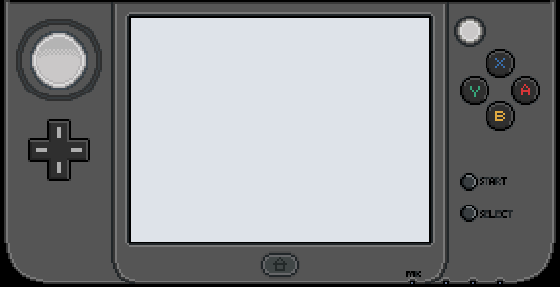
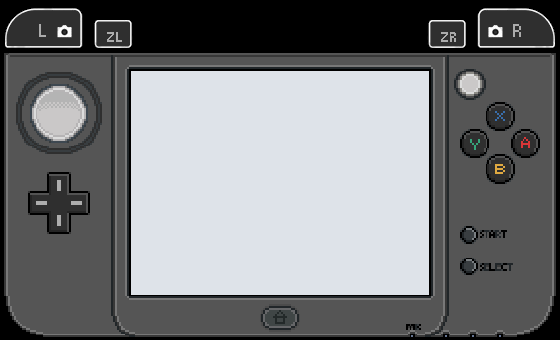
Modified overlay to include back L, R, ZL, ZR buttons

diff --git a/src/ControllerListener.java b/src/ControllerListener.java
@@ -49,16 +49,16 @@ public class ControllerListener extends JFrame implements NativeKeyListener {
                 Graphics2D g = (Graphics2D) o;
                 g.drawImage(overlay, 0, 0, this.getWidth(), this.getHeight(), null);
                 
-                if(drawA)       g.drawImage(pressA, 511, 76, pressA.getWidth(), pressA.getHeight(), null);
-                if(drawB)       g.drawImage(pressB, 486, 100, pressB.getWidth(), pressB.getHeight(), null);
-                if(drawX)       g.drawImage(pressX, 486, 49, pressX.getWidth(), pressX.getHeight(), null);
-                if(drawY)       g.drawImage(pressY, 460, 76, pressY.getWidth(), pressY.getHeight(), null);
-                if(drawSTART)   g.drawImage(pressSTART, 460, 173, pressSTART.getWidth(), pressSTART.getWidth(), null);
-                if(drawSELECT)  g.drawImage(pressSELECT, 460, 205, pressSELECT.getWidth(), pressSELECT.getWidth(), null);
-                if(drawLEFT)    g.drawImage(pressLEFT, 30, 140, pressLEFT.getWidth(), pressLEFT.getHeight(), null);
-                if(drawRIGHT)   g.drawImage(pressRIGHT, 67, 140, pressRIGHT.getWidth(), pressRIGHT.getHeight(), null);
-                if(drawUP)		g.drawImage(pressUP, 49, 121, pressUP.getWidth(), pressUP.getHeight(), null);
-                if(drawDOWN)    g.drawImage(pressDOWN, 49, 158, pressDOWN.getWidth(), pressDOWN.getHeight(), null);
+                if(drawA)       g.drawImage(pressA, 511, 129, pressA.getWidth(), pressA.getHeight(), null);
+                if(drawB)       g.drawImage(pressB, 486, 153, pressB.getWidth(), pressB.getHeight(), null);
+                if(drawX)       g.drawImage(pressX, 486, 102, pressX.getWidth(), pressX.getHeight(), null);
+                if(drawY)       g.drawImage(pressY, 460, 129, pressY.getWidth(), pressY.getHeight(), null);
+                if(drawSTART)   g.drawImage(pressSTART, 460, 226, pressSTART.getWidth(), pressSTART.getWidth(), null);
+                if(drawSELECT)  g.drawImage(pressSELECT, 460, 258, pressSELECT.getWidth(), pressSELECT.getWidth(), null);
+                if(drawLEFT)    g.drawImage(pressLEFT, 30, 193, pressLEFT.getWidth(), pressLEFT.getHeight(), null);
+                if(drawRIGHT)   g.drawImage(pressRIGHT, 67, 193, pressRIGHT.getWidth(), pressRIGHT.getHeight(), null);
+                if(drawUP)		g.drawImage(pressUP, 49, 174, pressUP.getWidth(), pressUP.getHeight(), null);
+                if(drawDOWN)    g.drawImage(pressDOWN, 49, 211, pressDOWN.getWidth(), pressDOWN.getHeight(), null);
             }
         };
         
